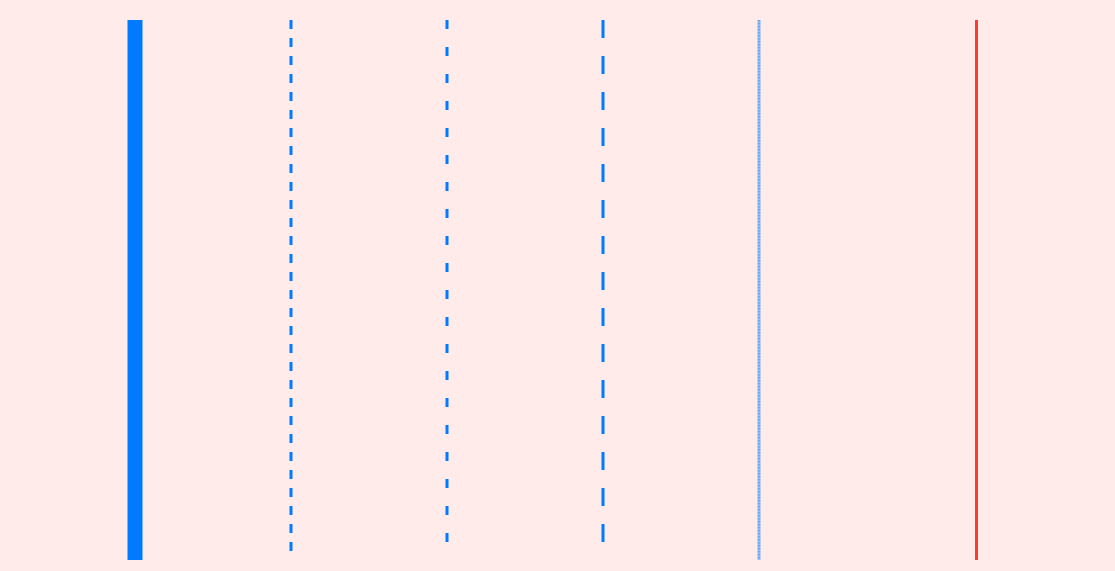
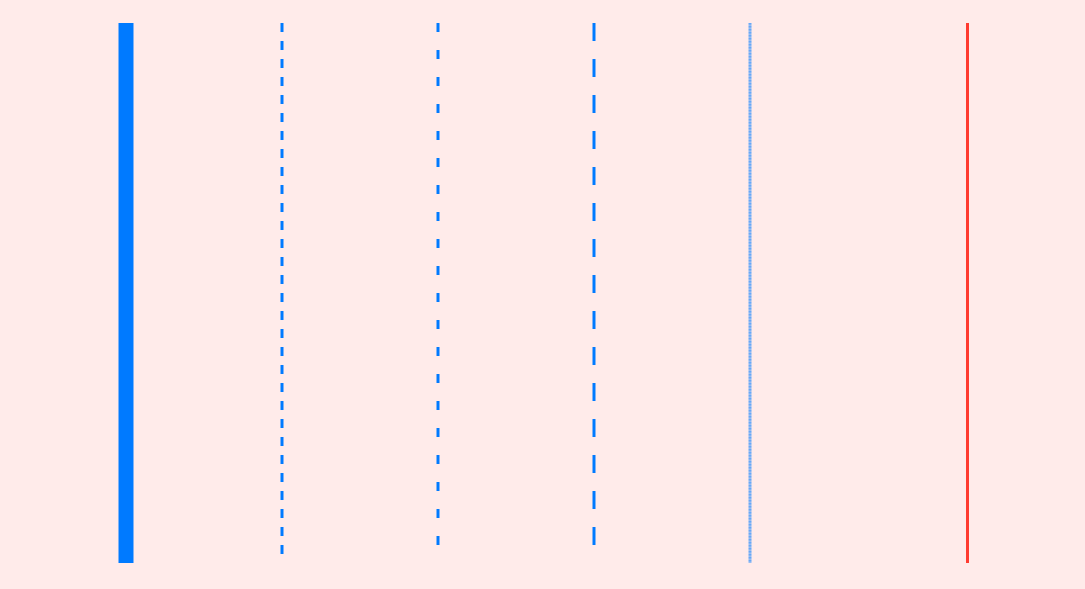
update images

diff --git a/LocalPods/CUIDemoElements/Classes/Fundamental Elements/SimpleLineView.swift b/LocalPods/CUIDemoElements/Classes/Fundamental Elements/SimpleLineView.swift
@@ -2,7 +2,7 @@
 //  SimpleLineView.swift
 //  CUIDemoElements
 //
-//  Created by lizitao on 2023/4/5.
+//  Created by zitao0206 on 2023/4/5.
 //
 
 import SwiftUI
@@ -35,52 +35,50 @@ public struct SimpleLineView: View {
     public init() {}
     
     public var body: some View {
-        if #available(iOS 15.0, *) {
-            HStack(alignment: .center, spacing: 50) {
-                HStack {
-                    PELine(direction: .vertical)
-                        .stroke(style: StrokeStyle(lineWidth: 5))
-                        .foregroundColor(.blue)
-                        .frame(width: 2.0, height: 180)
-                }
-                
-                HStack {
-                    PELine(direction: .vertical)
-                        .stroke(style: StrokeStyle(lineWidth: 1, dash: [3, 3]))
-                        .foregroundColor(.blue)
-                        .frame(width: 2.0, height: 180)
-                }
-                
-                HStack {
-                    PELine(direction: .vertical)
-                        .stroke(style: StrokeStyle(lineWidth: 1, dash: [3, 6]))
-                        .foregroundColor(.blue)
-                        .frame(width: 2.0, height: 180)
-                }
-                HStack {
-                    PELine(direction: .vertical)
-                        .stroke(style: StrokeStyle(lineWidth: 1, dash: [6, 6]))
-                        .foregroundColor(.blue)
-                        .frame(width: 2.0, height: 180)
-                }
-                HStack {
-                    PELine(direction: .vertical)
-                        .stroke(style: StrokeStyle(lineWidth: 1, dash: [0.1, 0.1]))
-                        .foregroundColor(.blue)
-                        .frame(width: 2.0, height: 180)
-                }
-                HStack {
-                    Rectangle()
-                        .fill(.red)
-                        .frame(width: 1.0, height: 180)
-                        .padding(.leading, 20)
-                }
+ 
+        HStack(alignment: .center, spacing: 50) {
+            HStack {
+                PELine(direction: .vertical)
+                    .stroke(style: StrokeStyle(lineWidth: 5))
+                    .foregroundColor(.blue)
+                    .frame(width: 2.0, height: 180)
             }
-            .frame(width: UIScreen.main.bounds.width - 20, height: 200)
-            .background(.red.opacity(0.1))
-        } else {
-            // Fallback on earlier versions
+            
+            HStack {
+                PELine(direction: .vertical)
+                    .stroke(style: StrokeStyle(lineWidth: 1, dash: [3, 3]))
+                    .foregroundColor(.blue)
+                    .frame(width: 2.0, height: 180)
+            }
+            
+            HStack {
+                PELine(direction: .vertical)
+                    .stroke(style: StrokeStyle(lineWidth: 1, dash: [3, 6]))
+                    .foregroundColor(.blue)
+                    .frame(width: 2.0, height: 180)
+            }
+            HStack {
+                PELine(direction: .vertical)
+                    .stroke(style: StrokeStyle(lineWidth: 1, dash: [6, 6]))
+                    .foregroundColor(.blue)
+                    .frame(width: 2.0, height: 180)
+            }
+            HStack {
+                PELine(direction: .vertical)
+                    .stroke(style: StrokeStyle(lineWidth: 1, dash: [0.1, 0.1]))
+                    .foregroundColor(.blue)
+                    .frame(width: 2.0, height: 180)
+            }
+            HStack {
+                Rectangle()
+                    .fill(.red)
+                    .frame(width: 1.0, height: 180)
+                    .padding(.leading, 20)
+            }
         }
+        .frame(width: UIScreen.main.bounds.width, height: 300)
+        .background(.red.opacity(0.1))
+         
 
    }
 }

diff --git a/LocalPods/CUIDemoElements/Classes/Fundamental Elements/SimpleButtonView.swift b/LocalPods/CUIDemoElements/Classes/Fundamental Elements/SimpleButtonView.swift
@@ -1,0 +1,96 @@
+//
+//  SimpleButtonView.swift
+//  CUIDemoElements
+//
+//  Created by zitao0206 on 2023/4/6.
+//
+
+import SwiftUI
+
+public struct SimpleButtonView: View {
+    
+    public init() {}
+    
+    public var body: some View {
+        VStack {
+            HStack(alignment: .center, spacing: 50) {
+                HStack {
+                    Button("Button 1") {
+                        print("Button 1 is clicked")
+                    }
+                    .background(.red.opacity(0.3))
+                    
+                    Button("Button 2", action: executeDelete)
+                    .padding()
+                    .background(.green.opacity(0.3))
+                }
+               
+            }
+                
+            HStack(alignment: .center, spacing: 5) {
+                HStack {
+                    Button("Button 3") {
+                        print("Button 3 is clicked")
+                    }
+                    .buttonStyle(.bordered)
+                    
+                    Button("Button 4", role: .destructive) {
+                        print("Button 4 is clicked")
+                    }
+                    .buttonStyle(.bordered)
+                    
+                    Button("Button 5") {
+                        print("Button 5 is clicked")
+                    }
+                    .buttonStyle(.borderedProminent)
+                    
+                    Button("Button 6", role: .destructive) {
+                        print("Button 6 is clicked")
+                    }
+                    .buttonStyle(.borderedProminent)
+                    .tint(.mint)
+                  
+                        
+                }
+            }
+            
+            HStack {
+                HStack {
+                    Button {
+                        print("Button 7 is clicked")
+                    } label: {
+                        Text("Button 7")
+                            .foregroundColor(.white)
+                            .background(.red)
+                    }
+                    Button {
+                        print("Button 8 is clicked")
+                    } label: {
+                        Image(systemName: "pencil")
+                    }
+                    .background(.green.opacity(0.3))
+                    
+                    Button {
+                        print("Edit button was tapped")
+                    } label: {
+                        Label("Button 9", systemImage: "pencil")
+                    }
+                    .background(.yellow.opacity(0.3))
+                }
+            }
+        }
+        .frame(width: UIScreen.main.bounds.width, height: 400)
+        .background(.blue.opacity(0.1))
+
+    }
+    
+    func executeDelete() {
+        print("Button 2 is clicked")
+    }
+}
+
+struct SimpleButtonView_Previews: PreviewProvider {
+    static var previews: some View {
+        SimpleButtonView()
+    }
+}

diff --git a/LocalPods/CUIDemoElements/Classes/Fundamental Elements/SimplePickerView.swift b/LocalPods/CUIDemoElements/Classes/Fundamental Elements/SimplePickerView.swift
@@ -17,15 +17,32 @@ public struct SimplePickerView: View {
     @State private var selectedStudent = "Harry"
     
     public var body: some View {
-        NavigationView {
+        VStack {
             Form {
-                Picker("Select your student", selection: $selectedStudent) {
-                    ForEach(students, id: \.self) {
-                        Text($0)
+                VStack(alignment: .center, spacing: 20) {
+                    
+                    VStack {
+                        Picker("Select your student", selection: $selectedStudent) {
+                            ForEach(students, id: \.self) {
+                                Text($0)
+                            }
+                        }
+                        .pickerStyle(.segmented)
+                        .background(.red.opacity(0.3))
+                    }
+                    VStack {
+                        Picker("Select your student", selection: $selectedStudent) {
+                            ForEach(students, id: \.self) {
+                                Text($0)
+                            }
+                        }
+                        .background(.yellow.opacity(0.3))
                     }
                 }
-//                .pickerStyle(.segmented)
             }
         }
+        .frame(width: UIScreen.main.bounds.width, height: 500)
+        .background(.green.opacity(0.1))
+       
     }
 }

diff --git a/LocalPods/CUIDemoExamples/Classes/VC/SwiftUIViewVC.swift b/LocalPods/CUIDemoExamples/Classes/VC/SwiftUIViewVC.swift
@@ -22,15 +22,20 @@ public class SwiftUIViewVC<T: View>: UIViewController {
         hostingController.view.translatesAutoresizingMaskIntoConstraints = false
         NSLayoutConstraint.activate([
             hostingController.view.topAnchor.constraint(equalTo: view.topAnchor),
+//            hostingController.view.topAnchor.constraint(equalTo: view.topAnchor, constant: -100),
             hostingController.view.bottomAnchor.constraint(equalTo: view.bottomAnchor),
             hostingController.view.leadingAnchor.constraint(equalTo: view.leadingAnchor),
             hostingController.view.trailingAnchor.constraint(equalTo: view.trailingAnchor)
         ])
-      
+        view.backgroundColor = loadBackgroudColor()
     }
     
     public func loadContentView() -> T {
         fatalError("loadContentView() has not been implemented")
+    }
+    
+    public func loadBackgroudColor() -> UIColor {
+        return .white
     }
     
  

diff --git a/LocalPods/CUIDemoExamples/Classes/CUIDemoData.swift b/LocalPods/CUIDemoExamples/Classes/CUIDemoData.swift
@@ -12,9 +12,11 @@ public class CUIDemoElementsData : NSObject {
     
     public static func obtainData() -> [CUIDemoCellItemModel] {
         var array = [CUIDemoCellItemModel]()
-        //图片像素比例：1115 * 571
-        array.append(obtainItemData(withKeyName: "SimplePicker", descrip: "简单的选择器･SwiftUI", imageType: "png"))
+        //图片像素比例：1115 * 600
+        array.append(obtainItemData(withKeyName: "SimpleButton", descrip: "简单的按钮･SwiftUI", imageType: "png"))
         array.append(obtainItemData(withKeyName: "SimpleLine", descrip: "简单的线条･SwiftUI", imageType: "png"))
+        array.append(obtainItemData(withKeyName: "SimplePicker", descrip: "简单的选择器･SwiftUI", imageType: "png"))
+
         return array
     }
 

diff --git a/CUIDemoFavorites/HallList/CUIPlusHallListVC.swift b/CUIDemoFavorites/HallList/CUIPlusHallListVC.swift
@@ -20,6 +20,7 @@ public class CUIPlusHallListVC : UIViewController, UITableViewDelegate, UITableV
             items.append("Fundamental Elements")
             items.append("Static Views")
             items.append("Dynamic Views")
+            items.append("Others")
             return items
     }()
     
@@ -69,5 +70,9 @@ public class CUIPlusHallListVC : UIViewController, UITableViewDelegate, UITableV
         if indexPath.row == 2 {
             navigationController?.pushViewController(CUIDynamicViewVC(), animated: true)
         }
+        if indexPath.row == 3 {
+            navigationController?.pushViewController(CUIDynamicViewVC(), animated: true)
+        }
+        
     }
 }

diff --git a/LocalPods/CUIDemoExamples/Classes/VC/SimpleButtonViewVC.swift b/LocalPods/CUIDemoExamples/Classes/VC/SimpleButtonViewVC.swift
@@ -1,0 +1,19 @@
+//
+//  SimpleButtonViewVC.swift
+//  CUIDemoElements
+//
+//  Created by zitao0206 on 2023/4/6.
+//
+
+import Foundation
+import SwiftUI
+import CUIDemoElements
+
+@objc(SimpleButtonViewVC)
+public class SimpleButtonViewVC: SwiftUIViewVC <SimpleButtonView> {
+    
+    public override func loadContentView() -> SimpleButtonView {
+        return SimpleButtonView()
+    }
+    
+}

diff --git a/LocalPods/CUIDemoElements/Classes/Dynamic Views/SpringMotionView.swift b/LocalPods/CUIDemoElements/Classes/Dynamic Views/SpringMotionView.swift
@@ -2,7 +2,7 @@
 //  SpringMotionView.swift
 //  CUIDemoElements
 //
-//  Created by lizitao on 2023/4/4.
+//  Created by zitao0206 on 2023/4/4.
 //
 
 import Foundation

diff --git a/LocalPods/CUIDemoExamples/Classes/VC/SpringMotionViewVC.swift b/LocalPods/CUIDemoExamples/Classes/VC/SpringMotionViewVC.swift
@@ -2,7 +2,7 @@
 //  SpringMotionViewVC.swift
 //  CUIDemoElements
 //
-//  Created by lizitao on 2023/4/4.
+//  Created by zitao0206 on 2023/4/4.
 //
 
 import UIKit

diff --git a/LocalPods/CUIDemoExamples/Classes/VC/SimpleLineViewVC.swift b/LocalPods/CUIDemoExamples/Classes/VC/SimpleLineViewVC.swift
@@ -2,7 +2,7 @@
 //  SimpleLineViewVC.swift
 //  CUIDemoElements
 //
-//  Created by lizitao on 2023/4/5.
+//  Created by zitao0206 on 2023/4/5.
 //
 
 import UIKit
